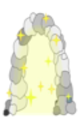
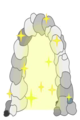
replaced old gate image and fixed position

diff --git a/NextLevel.java b/NextLevel.java
@@ -37,10 +37,10 @@ public class NextLevel extends GameObject{
 		
 		if( handler.isLevelCleared() )
 		{
-			gateOpen.drawMotion(g, (int)x-10, (int)y-83);
+			gateOpen.drawMotion(g, (int)x-10, (int)y-75);
 		}
 		else
-			g.drawImage(Gate[0], (int)x-10, (int)y-83, null);
+			g.drawImage(Gate[0], (int)x-10, (int)y-75, null);
 
 		// Graphics2D gg = (Graphics2D)g;
 		// gg.setColor(Color.RED);
